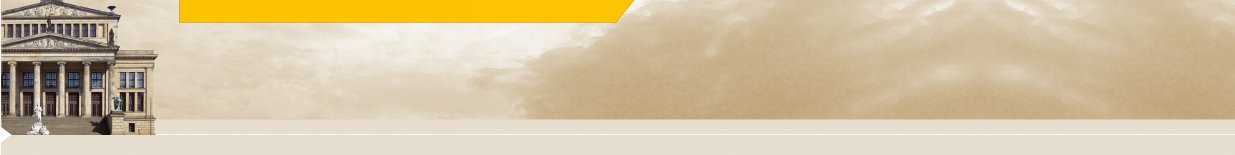
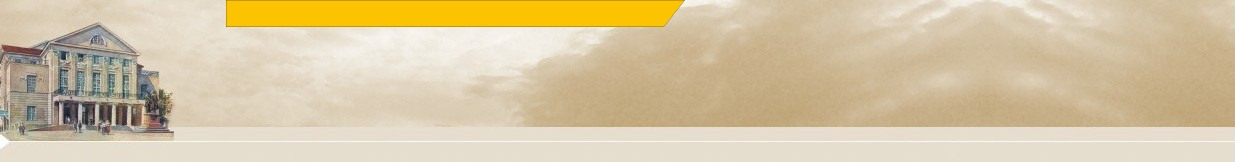
update of the images in the template

diff --git a/myjportal/modules/jportal/webpages/templates/master/template_19thCentury/CSS/style_general.css b/myjportal/modules/jportal/webpages/templates/master/template_19thCentury/CSS/style_general.css
@@ -1,138 +1,143 @@
-html, body {
-    margin: 0px;
-    font-family: Verdana, Helvetica, sans-serif;
-    font-size: 12px;
+html,body {
+	margin: 0px;
+	font-family: Verdana, Helvetica, sans-serif;
+	font-size: 12px;
 }
 
 #border {
-	border-top: 0px solid #BAB6A9; 
-	border-left: 0px solid #BAB6A9; 
+	border-top: 0px solid #BAB6A9;
+	border-left: 0px solid #BAB6A9;
 	border-right: 0px solid #BAB6A9;
-	width : 100%;
-	}
+	width: 100%;
+}
 
 #footer1 {
-	width:100%; 
-	height:39px; 
-	background: #4064AB; 
-	margin : 0px;
+	width: 100%;
+	height: 39px;
+	background: #4064AB;
+	margin: 0px;
 	border: 0px solid red;
-	}
+}
+
 #login_div {
-	padding-top : 15px;
-	padding-left : 10px;
+	padding-top: 15px;
+	padding-left: 10px;
 	min-width: 291px;
-	width:281px; 
-	height: 24px; 
-	float : left;
+	width: 281px;
+	height: 24px;
+	float: left;
 	border: 0px solid green;
-	}
+}
 
 #navigation_box {
-	height: 20px; 
+	height: 20px;
 	position: absolute;
 	top: 10px;
 	right: 5px;
 }
+
 #thulb_logo {
-	padding-left: 23px;  
+	padding-left: 23px;
 }
 
 #banner {
-	width:100%; 
-	height: 110px; 
-	}
-#footer2 {
-	width: 100%; 
-	height: 100%;
-	text-align:left;
-	vertical-align: top;
-	border :0px; 
-	margin :0px; 
-	padding:0px;
-}	
-#footer2_left {
-	text-align:left;
-	vertical-align: top;
-	border : 0px;
-	width : 290px;
+	width: 100%;
+	height: 110px;
 }
 
-footer2_right  {
-	text-align:left;
+#footer2 {
+	width: 100%;
+	height: 100%;
+	text-align: left;
+	vertical-align: top;
+	border: 0px;
+	margin: 0px;
+	padding: 0px;
+}
+
+#footer2_left {
+	text-align: left;
+	vertical-align: top;
+	border: 0px;
+	width: 290px;
+}
+
+#footer2_right {
+	text-align: left;
 	vertical-align: top;
 	width: 100%;
 }
 
 #footer_bottom {
 	border: 0px solid black;
-/*	background : #d5d5d5; */
-	width : 49px;
-	height : 17px;
+	/*	background : #d5d5d5; */
+	width: 49px;
+	height: 17px;
 	margin-top: 2px;
-	
 }
-#div_navi_main {
-	width:220px; 
-	min-height:150px; 
-	height:auto; 
-	padding-left : 5px;
-}	
 
-#headline{
+#div_navi_main {
+	width: 220px;
+	min-height: 150px;
+	height: auto;
+	padding-left: 5px;
+}
+
+#headline {
 	padding-left: 10px;
 	color: white;
 	font-size: 12px;
 	text-decoration: none;
 }
 
-#headline a{
+#headline a {
 	font-weight: bold;
 	color: white;
 	font-size: 12px;
 	text-decoration: none;
 }
 
-#headline a:hover{
+#headline a:hover {
 	text-decoration: underline;
 }
-#whitespace{
+
+#whitespace {
 	height: 8px;
 }
 
-#time{
-	font-size: 14px; 
-	font-weight: bold; 
-	position:absolute; 
-	top:33px; 
-	left:200px;
+#time {
+	font-size: 14px;
+	font-weight: bold;
+	position: absolute;
+	top: 34px;
+	left: 244px;
 	color: black;
 }
 
-#journal-title{
+#journal-title {
 	font-family: serif;
-	font-size: 34px;  
-	position: absolute; 
-	top: 90px; 
-	left: 190px;
+	font-size: 34px;
+	position: absolute;
+	top: 90px;
+	left: 237px;
 	color: black;
 	z-index: 10;
 }
 
 #transparent-logo[id] {
-	background:url(../IMAGES/19th-logo.png) no-repeat; 
-	position:absolute; 
-	top:27px; 
+	background: url(../IMAGES/19th-logo.png) no-repeat;
+	position: absolute;
+	top: 30px;
 	right: 25px;
-	width:447px; 
-	height:171px;
+	width: 476px;
+	height: 173px;
 }
 
 #transparent-logo {
-	background:url(../IMAGES/19th-logo.gif) no-repeat; 
-	position:absolute; 
-	top:10px; 
+	background: url(../IMAGES/19th-logo.gif) no-repeat;
+	position: absolute;
+	top: 31px;
 	right: 25px;
-	width:437px; 
-	height:180px;
+	width: 478px;
+	height: 171px;
 }

diff --git a/myjportal/modules/jportal/webpages/templates/master/template_19thCentury/CSS/style_navigation.css b/myjportal/modules/jportal/webpages/templates/master/template_19thCentury/CSS/style_navigation.css
@@ -185,8 +185,8 @@ div.main_menu {
     height: 11px;    
     font-family: Verdana, Arial, Helvetica, sans-serif;
 	position: absolute;
-	top: 178px;
-	left: 30px;
+	top: 185px;
+	left: 31px;
 }
 
 #navi_history a

diff --git a/application/modules/jportal/webpages/common.css b/application/modules/jportal/webpages/common.css
@@ -8,6 +8,11 @@
 }
 
 #poweredByMycore a{
+    border-style:none; 
+	padding-left: 15px; 
+}
+
+#poweredByMycore img{
     border-style:none;  
 }
 
